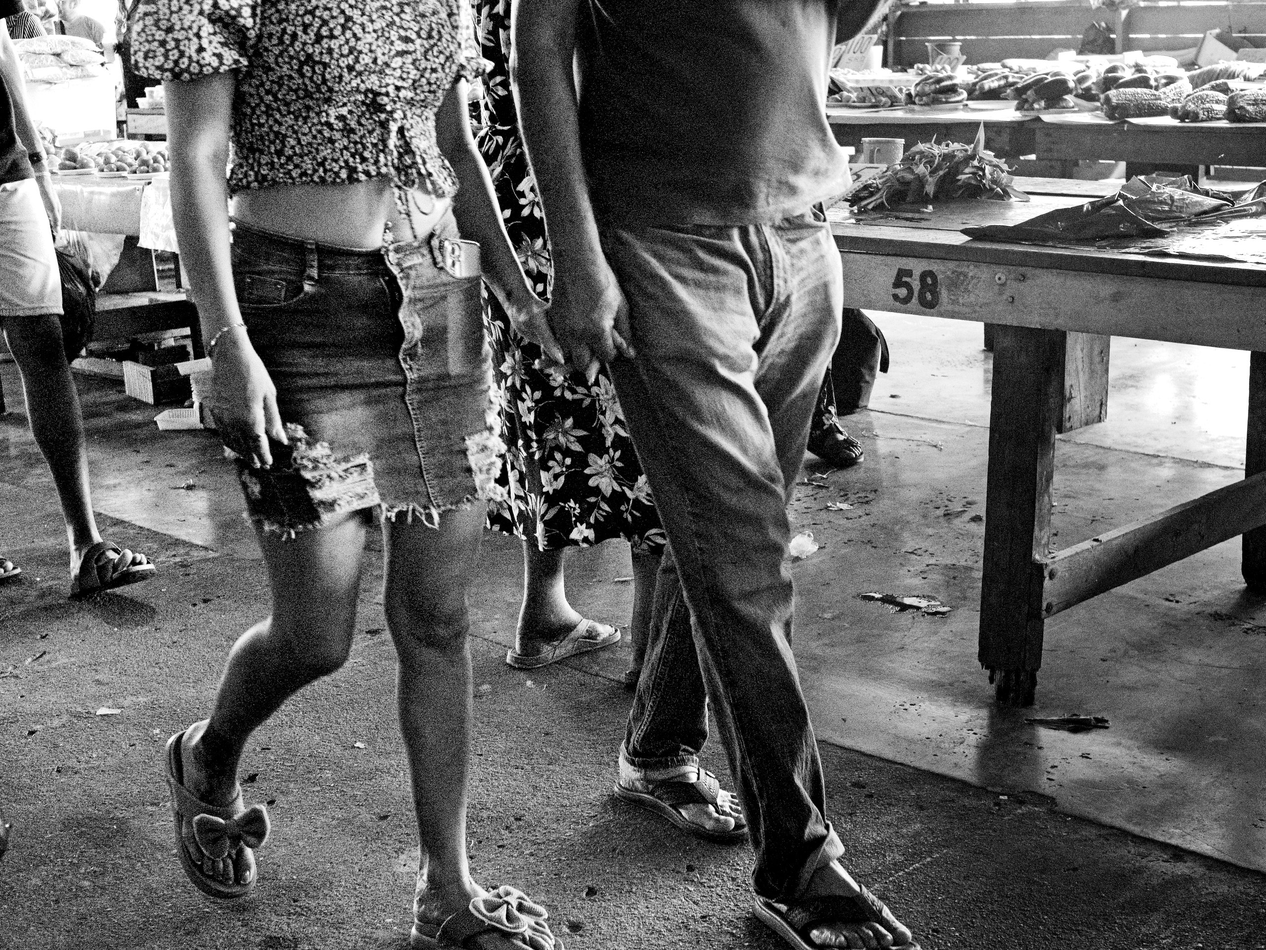
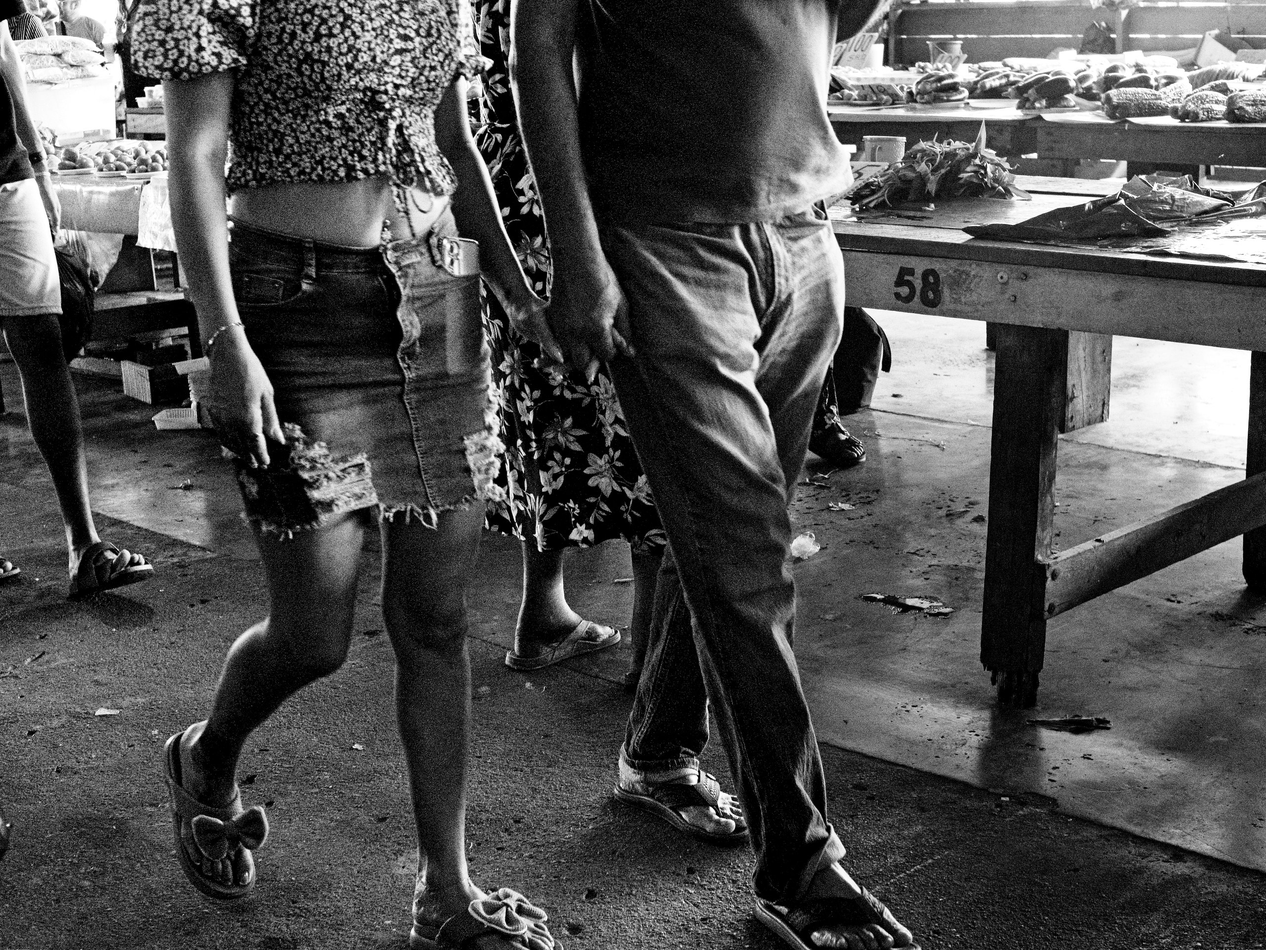
photo: publish reviewed fh-0082

diff --git a/photography/sheets/index.html b/photography/sheets/index.html
@@ -90,7 +90,7 @@
       </li>
       <li class="sheet-entry" style="--tilt:0.50deg">
         <div class="sheet-margin"></div>
-        <a class="sheet-mini" href="/photography/sheets/2026-09-16-market/" tabindex="-1" aria-hidden="true"><span class="mini-edge">faisalhenar.com ▸ 16 September, the market ▸ 5 frames</span><span class="mini-grid" style="--cols:5"><span class="mini-frame"><img src="/cdn-cgi/image/width=400,fit=scale-down,format=auto/photography/photos/2026/fh-0086.jpg?rev=44a2c868c591eb7c0a8722d54b66adce5eff86d0c9de222544d00afaa6a4e450" srcset="/cdn-cgi/image/width=400,fit=scale-down,format=auto/photography/photos/2026/fh-0086.jpg?rev=44a2c868c591eb7c0a8722d54b66adce5eff86d0c9de222544d00afaa6a4e450 400w" sizes="90px" data-orig="/photography/photos/2026/fh-0086.jpg?rev=44a2c868c591eb7c0a8722d54b66adce5eff86d0c9de222544d00afaa6a4e450" width="2560" height="1920" alt="An arm reaches in from the right to turn a key in the lock of a red wooden door." loading="lazy" decoding="async"><span class="mini-no">1 ▸ 1A</span></span><span class="mini-frame"><img src="/cdn-cgi/image/width=400,fit=scale-down,format=auto/photography/photos/2026/fh-0082.jpg?rev=a4d714afacf1c259f435d472354178da2475fb72c502e93b87b946a0258f99fd" srcset="/cdn-cgi/image/width=400,fit=scale-down,format=auto/photography/photos/2026/fh-0082.jpg?rev=a4d714afacf1c259f435d472354178da2475fb72c502e93b87b946a0258f99fd 400w" sizes="90px" data-orig="/photography/photos/2026/fh-0082.jpg?rev=a4d714afacf1c259f435d472354178da2475fb72c502e93b87b946a0258f99fd" width="2560" height="1920" alt="A couple walking through the market, photographed from the waist down, their hands just meeting between them. The stall behind is numbered 58." loading="lazy" decoding="async"><span class="mini-no">2 ▸ 2A</span></span><span class="mini-frame"><img src="/cdn-cgi/image/width=400,fit=scale-down,format=auto/photography/photos/2026/fh-0083.jpg?rev=c899ce75718e8bb99e6b8ab2c83781c23a327c18b4f1fc25707e74d03e782707" srcset="/cdn-cgi/image/width=400,fit=scale-down,format=auto/photography/photos/2026/fh-0083.jpg?rev=c899ce75718e8bb99e6b8ab2c83781c23a327c18b4f1fc25707e74d03e782707 400w" sizes="90px" data-orig="/photography/photos/2026/fh-0083.jpg?rev=c899ce75718e8bb99e6b8ab2c83781c23a327c18b4f1fc25707e74d03e782707" width="2560" height="1920" alt="A vegetable seller sits behind his stall, framed from the chest down. Long beans and bitter gourd are spread on foil in front of him with handwritten price cards." loading="lazy" decoding="async"><span class="mini-no">3 ▸ 3A</span></span><span class="mini-frame frame--circled"><img src="/cdn-cgi/image/width=400,fit=scale-down,format=auto/photography/photos/2026/fh-0084.jpg?rev=eede2a7308c9a1a25f5d3e18f4d7dce4f42c4d69f56e658c7031aada31435ecd" srcset="/cdn-cgi/image/width=400,fit=scale-down,format=auto/photography/photos/2026/fh-0084.jpg?rev=eede2a7308c9a1a25f5d3e18f4d7dce4f42c4d69f56e658c7031aada31435ecd 400w" sizes="90px" data-orig="/photography/photos/2026/fh-0084.jpg?rev=eede2a7308c9a1a25f5d3e18f4d7dce4f42c4d69f56e658c7031aada31435ecd" width="2560" height="1920" alt="Two hands meet over a market table as money changes hands. A man in sunglasses stands at the stall and the seller sits behind it in a white headscarf." loading="lazy" decoding="async"><span class="mini-no">4 ▸ 4A</span><svg class="circle" viewBox="0 0 100 80" preserveAspectRatio="none" aria-hidden="true" focusable="false"><path d="M97.09 45.42 L96.61 48.34 L95.68 51.21 L94.28 53.96 L92.42 56.54 L90.17 58.92 L87.59 61.08 L84.79 63.02 L81.87 64.78 L78.88 66.41 L75.88 67.96 L72.87 69.48 L69.83 70.98 L66.70 72.47 L63.44 73.90 L60.01 75.20 L56.40 76.31 L52.61 77.12 L48.70 77.58 L44.74 77.63 L40.80 77.25 L36.97 76.47 L33.31 75.33 L29.84 73.91 L26.57 72.27 L23.49 70.49 L20.55 68.61 L17.73 66.66 L15.00 64.63 L12.38 62.51 L9.89 60.26 L7.61 57.86 L5.61 55.30 L3.98 52.58 L2.79 49.72 L2.08 46.77 L1.85 43.78 L2.07 40.81 L2.67 37.88 L3.56 35.04 L4.64 32.27 L5.85 29.56 L7.14 26.89 L8.50 24.24 L9.95 21.58 L11.57 18.93 L13.42 16.31 L15.57 13.79 L18.07 11.43 L20.95 9.31 L24.17 7.51 L27.69 6.06 L31.43 4.99 L35.30 4.29 L39.21 3.90 L43.10 3.76 L46.95 3.81 L50.75 3.96 L54.51 4.19 L58.27 4.47 L62.05 4.82 L65.86 5.29 L69.68 5.95 L73.48 6.84 L77.16 8.04 L80.65 9.56 L83.87 11.42 L86.73 13.59 L89.22 16.02 L91.31 18.65 L93.04 21.41 L94.47 24.24 L95.66 27.10 L96.67 29.98 L97.54 32.88 L98.27 35.81 L98.83 38.78 L99.15 41.80 L99.17 44.85 L98.79 47.90 L97.95 50.91 L96.61 53.82 L94.80 56.56" pathLength="100" stroke-width="1.25" opacity="0.92"/><path d="M97.09 45.42 L96.61 48.34 L95.68 51.21 L94.28 53.96 L92.42 56.54 L90.17 58.92 L87.59 61.08 L84.79 63.02 L81.87 64.78 L78.88 66.41 L75.88 67.96 L72.87 69.48 L69.83 70.98 L66.70 72.47 L63.44 73.90 L60.01 75.20 L56.40 76.31 L52.61 77.12 L48.70 77.58 L44.74 77.63 L40.80 77.25 L36.97 76.47 L33.31 75.33 L29.84 73.91 L26.57 72.27 L23.49 70.49 L20.55 68.61 L17.73 66.66 L15.00 64.63 L12.38 62.51 L9.89 60.26 L7.61 57.86 L5.61 55.30 L3.98 52.58 L2.79 49.72 L2.08 46.77 L1.85 43.78 L2.07 40.81 L2.67 37.88 L3.56 35.04 L4.64 32.27 L5.85 29.56 L7.14 26.89 L8.50 24.24 L9.95 21.58 L11.57 18.93 L13.42 16.31 L15.57 13.79 L18.07 11.43 L20.95 9.31 L24.17 7.51 L27.69 6.06 L31.43 4.99 L35.30 4.29 L39.21 3.90 L43.10 3.76 L46.95 3.81 L50.75 3.96 L54.51 4.19 L58.27 4.47 L62.05 4.82 L65.86 5.29 L69.68 5.95 L73.48 6.84 L77.16 8.04 L80.65 9.56 L83.87 11.42 L86.73 13.59 L89.22 16.02 L91.31 18.65 L93.04 21.41 L94.47 24.24 L95.66 27.10 L96.67 29.98 L97.54 32.88 L98.27 35.81 L98.83 38.78 L99.15 41.80 L99.17 44.85 L98.79 47.90 L97.95 50.91 L96.61 53.82 L94.80 56.56" pathLength="100" stroke-width="0.5" opacity="0.45" transform="translate(0.6 0.5)"/></svg></span><span class="mini-frame"><img src="/cdn-cgi/image/width=400,fit=scale-down,format=auto/photography/photos/2026/fh-0085.jpg?rev=d2197e35e6f573376fac03a990ac7667700d8f3621ca6a68453bbbf493c1e3f8" srcset="/cdn-cgi/image/width=400,fit=scale-down,format=auto/photography/photos/2026/fh-0085.jpg?rev=d2197e35e6f573376fac03a990ac7667700d8f3621ca6a68453bbbf493c1e3f8 400w" sizes="90px" data-orig="/photography/photos/2026/fh-0085.jpg?rev=d2197e35e6f573376fac03a990ac7667700d8f3621ca6a68453bbbf493c1e3f8" width="2560" height="1921" alt="An older woman in a lace headscarf stands behind her market table, greens and aubergines laid out with handwritten price cards." loading="lazy" decoding="async"><span class="mini-no">5 ▸ 5A</span></span></span></a>
+        <a class="sheet-mini" href="/photography/sheets/2026-09-16-market/" tabindex="-1" aria-hidden="true"><span class="mini-edge">faisalhenar.com ▸ 16 September, the market ▸ 5 frames</span><span class="mini-grid" style="--cols:5"><span class="mini-frame"><img src="/cdn-cgi/image/width=400,fit=scale-down,format=auto/photography/photos/2026/fh-0086.jpg?rev=44a2c868c591eb7c0a8722d54b66adce5eff86d0c9de222544d00afaa6a4e450" srcset="/cdn-cgi/image/width=400,fit=scale-down,format=auto/photography/photos/2026/fh-0086.jpg?rev=44a2c868c591eb7c0a8722d54b66adce5eff86d0c9de222544d00afaa6a4e450 400w" sizes="90px" data-orig="/photography/photos/2026/fh-0086.jpg?rev=44a2c868c591eb7c0a8722d54b66adce5eff86d0c9de222544d00afaa6a4e450" width="2560" height="1920" alt="An arm reaches in from the right to turn a key in the lock of a red wooden door." loading="lazy" decoding="async"><span class="mini-no">1 ▸ 1A</span></span><span class="mini-frame"><img src="/cdn-cgi/image/width=400,fit=scale-down,format=auto/photography/photos/2026/fh-0082.jpg?rev=ab3112e84700203fa61a81bfe209f6664bd97561145934535093a1c190da32ef" srcset="/cdn-cgi/image/width=400,fit=scale-down,format=auto/photography/photos/2026/fh-0082.jpg?rev=ab3112e84700203fa61a81bfe209f6664bd97561145934535093a1c190da32ef 400w" sizes="90px" data-orig="/photography/photos/2026/fh-0082.jpg?rev=ab3112e84700203fa61a81bfe209f6664bd97561145934535093a1c190da32ef" width="2560" height="1920" alt="A couple walking through the market, photographed from the waist down, their hands just meeting between them. The stall behind is numbered 58." loading="lazy" decoding="async"><span class="mini-no">2 ▸ 2A</span></span><span class="mini-frame"><img src="/cdn-cgi/image/width=400,fit=scale-down,format=auto/photography/photos/2026/fh-0083.jpg?rev=c899ce75718e8bb99e6b8ab2c83781c23a327c18b4f1fc25707e74d03e782707" srcset="/cdn-cgi/image/width=400,fit=scale-down,format=auto/photography/photos/2026/fh-0083.jpg?rev=c899ce75718e8bb99e6b8ab2c83781c23a327c18b4f1fc25707e74d03e782707 400w" sizes="90px" data-orig="/photography/photos/2026/fh-0083.jpg?rev=c899ce75718e8bb99e6b8ab2c83781c23a327c18b4f1fc25707e74d03e782707" width="2560" height="1920" alt="A vegetable seller sits behind his stall, framed from the chest down. Long beans and bitter gourd are spread on foil in front of him with handwritten price cards." loading="lazy" decoding="async"><span class="mini-no">3 ▸ 3A</span></span><span class="mini-frame frame--circled"><img src="/cdn-cgi/image/width=400,fit=scale-down,format=auto/photography/photos/2026/fh-0084.jpg?rev=eede2a7308c9a1a25f5d3e18f4d7dce4f42c4d69f56e658c7031aada31435ecd" srcset="/cdn-cgi/image/width=400,fit=scale-down,format=auto/photography/photos/2026/fh-0084.jpg?rev=eede2a7308c9a1a25f5d3e18f4d7dce4f42c4d69f56e658c7031aada31435ecd 400w" sizes="90px" data-orig="/photography/photos/2026/fh-0084.jpg?rev=eede2a7308c9a1a25f5d3e18f4d7dce4f42c4d69f56e658c7031aada31435ecd" width="2560" height="1920" alt="Two hands meet over a market table as money changes hands. A man in sunglasses stands at the stall and the seller sits behind it in a white headscarf." loading="lazy" decoding="async"><span class="mini-no">4 ▸ 4A</span><svg class="circle" viewBox="0 0 100 80" preserveAspectRatio="none" aria-hidden="true" focusable="false"><path d="M97.09 45.42 L96.61 48.34 L95.68 51.21 L94.28 53.96 L92.42 56.54 L90.17 58.92 L87.59 61.08 L84.79 63.02 L81.87 64.78 L78.88 66.41 L75.88 67.96 L72.87 69.48 L69.83 70.98 L66.70 72.47 L63.44 73.90 L60.01 75.20 L56.40 76.31 L52.61 77.12 L48.70 77.58 L44.74 77.63 L40.80 77.25 L36.97 76.47 L33.31 75.33 L29.84 73.91 L26.57 72.27 L23.49 70.49 L20.55 68.61 L17.73 66.66 L15.00 64.63 L12.38 62.51 L9.89 60.26 L7.61 57.86 L5.61 55.30 L3.98 52.58 L2.79 49.72 L2.08 46.77 L1.85 43.78 L2.07 40.81 L2.67 37.88 L3.56 35.04 L4.64 32.27 L5.85 29.56 L7.14 26.89 L8.50 24.24 L9.95 21.58 L11.57 18.93 L13.42 16.31 L15.57 13.79 L18.07 11.43 L20.95 9.31 L24.17 7.51 L27.69 6.06 L31.43 4.99 L35.30 4.29 L39.21 3.90 L43.10 3.76 L46.95 3.81 L50.75 3.96 L54.51 4.19 L58.27 4.47 L62.05 4.82 L65.86 5.29 L69.68 5.95 L73.48 6.84 L77.16 8.04 L80.65 9.56 L83.87 11.42 L86.73 13.59 L89.22 16.02 L91.31 18.65 L93.04 21.41 L94.47 24.24 L95.66 27.10 L96.67 29.98 L97.54 32.88 L98.27 35.81 L98.83 38.78 L99.15 41.80 L99.17 44.85 L98.79 47.90 L97.95 50.91 L96.61 53.82 L94.80 56.56" pathLength="100" stroke-width="1.25" opacity="0.92"/><path d="M97.09 45.42 L96.61 48.34 L95.68 51.21 L94.28 53.96 L92.42 56.54 L90.17 58.92 L87.59 61.08 L84.79 63.02 L81.87 64.78 L78.88 66.41 L75.88 67.96 L72.87 69.48 L69.83 70.98 L66.70 72.47 L63.44 73.90 L60.01 75.20 L56.40 76.31 L52.61 77.12 L48.70 77.58 L44.74 77.63 L40.80 77.25 L36.97 76.47 L33.31 75.33 L29.84 73.91 L26.57 72.27 L23.49 70.49 L20.55 68.61 L17.73 66.66 L15.00 64.63 L12.38 62.51 L9.89 60.26 L7.61 57.86 L5.61 55.30 L3.98 52.58 L2.79 49.72 L2.08 46.77 L1.85 43.78 L2.07 40.81 L2.67 37.88 L3.56 35.04 L4.64 32.27 L5.85 29.56 L7.14 26.89 L8.50 24.24 L9.95 21.58 L11.57 18.93 L13.42 16.31 L15.57 13.79 L18.07 11.43 L20.95 9.31 L24.17 7.51 L27.69 6.06 L31.43 4.99 L35.30 4.29 L39.21 3.90 L43.10 3.76 L46.95 3.81 L50.75 3.96 L54.51 4.19 L58.27 4.47 L62.05 4.82 L65.86 5.29 L69.68 5.95 L73.48 6.84 L77.16 8.04 L80.65 9.56 L83.87 11.42 L86.73 13.59 L89.22 16.02 L91.31 18.65 L93.04 21.41 L94.47 24.24 L95.66 27.10 L96.67 29.98 L97.54 32.88 L98.27 35.81 L98.83 38.78 L99.15 41.80 L99.17 44.85 L98.79 47.90 L97.95 50.91 L96.61 53.82 L94.80 56.56" pathLength="100" stroke-width="0.5" opacity="0.45" transform="translate(0.6 0.5)"/></svg></span><span class="mini-frame"><img src="/cdn-cgi/image/width=400,fit=scale-down,format=auto/photography/photos/2026/fh-0085.jpg?rev=d2197e35e6f573376fac03a990ac7667700d8f3621ca6a68453bbbf493c1e3f8" srcset="/cdn-cgi/image/width=400,fit=scale-down,format=auto/photography/photos/2026/fh-0085.jpg?rev=d2197e35e6f573376fac03a990ac7667700d8f3621ca6a68453bbbf493c1e3f8 400w" sizes="90px" data-orig="/photography/photos/2026/fh-0085.jpg?rev=d2197e35e6f573376fac03a990ac7667700d8f3621ca6a68453bbbf493c1e3f8" width="2560" height="1921" alt="An older woman in a lace headscarf stands behind her market table, greens and aubergines laid out with handwritten price cards." loading="lazy" decoding="async"><span class="mini-no">5 ▸ 5A</span></span></span></a>
         <div class="sheet-note">
           <h2><a href="/photography/sheets/2026-09-16-market/">16 September, the market</a></h2>
           <p class="sheet-meta">16 September 2026 · 5 frames</p>

diff --git a/photography/everything/index.html b/photography/everything/index.html
@@ -110,7 +110,7 @@
           <a class="ev-item" href="/photography/p/fh-0085/" style="--r:1.3326;--tilt:-0.06deg" data-place="suriname" data-tone="bw" data-v-src="/photography/photos/2026/fh-0085.jpg?rev=d2197e35e6f573376fac03a990ac7667700d8f3621ca6a68453bbbf493c1e3f8" data-v-w="2560" data-v-h="1921" data-v-title="Frame 5, 16 September, the market" data-v-desc="An older woman in a lace headscarf stands behind her market table, greens and aubergines laid out with handwritten price cards." data-v-meta="16 September 2026, 11:32" data-v-from="From 16 September, the market, frame 5" data-v-from-href="/photography/sheets/2026-09-16-market/#frame-5" data-v-wall="" data-v-wall-href=""><img src="/cdn-cgi/image/width=300,fit=scale-down,format=auto/photography/photos/2026/fh-0085.jpg?rev=d2197e35e6f573376fac03a990ac7667700d8f3621ca6a68453bbbf493c1e3f8" srcset="/cdn-cgi/image/width=300,fit=scale-down,format=auto/photography/photos/2026/fh-0085.jpg?rev=d2197e35e6f573376fac03a990ac7667700d8f3621ca6a68453bbbf493c1e3f8 300w, /cdn-cgi/image/width=600,fit=scale-down,format=auto/photography/photos/2026/fh-0085.jpg?rev=d2197e35e6f573376fac03a990ac7667700d8f3621ca6a68453bbbf493c1e3f8 600w" sizes="(max-width: 760px) 120px, 217px" data-orig="/photography/photos/2026/fh-0085.jpg?rev=d2197e35e6f573376fac03a990ac7667700d8f3621ca6a68453bbbf493c1e3f8" width="2560" height="1921" alt="An older woman in a lace headscarf stands behind her market table, greens and aubergines laid out with handwritten price cards." loading="lazy" decoding="async"><span class="ev-cap" aria-hidden="true">Frame 5, 16 September, the market</span></a>
           <a class="ev-item" href="/photography/p/fh-0084/" style="--r:1.3333;--tilt:0.33deg" data-place="suriname" data-tone="bw" data-v-src="/photography/photos/2026/fh-0084.jpg?rev=eede2a7308c9a1a25f5d3e18f4d7dce4f42c4d69f56e658c7031aada31435ecd" data-v-w="2560" data-v-h="1920" data-v-title="Frame 4, 16 September, the market" data-v-desc="Two hands meet over a market table as money changes hands. A man in sunglasses stands at the stall and the seller sits behind it in a white headscarf." data-v-meta="16 September 2026, 11:25" data-v-from="From 16 September, the market, frame 4" data-v-from-href="/photography/sheets/2026-09-16-market/#frame-4" data-v-wall="" data-v-wall-href=""><img src="/cdn-cgi/image/width=300,fit=scale-down,format=auto/photography/photos/2026/fh-0084.jpg?rev=eede2a7308c9a1a25f5d3e18f4d7dce4f42c4d69f56e658c7031aada31435ecd" srcset="/cdn-cgi/image/width=300,fit=scale-down,format=auto/photography/photos/2026/fh-0084.jpg?rev=eede2a7308c9a1a25f5d3e18f4d7dce4f42c4d69f56e658c7031aada31435ecd 300w, /cdn-cgi/image/width=600,fit=scale-down,format=auto/photography/photos/2026/fh-0084.jpg?rev=eede2a7308c9a1a25f5d3e18f4d7dce4f42c4d69f56e658c7031aada31435ecd 600w" sizes="(max-width: 760px) 120px, 217px" data-orig="/photography/photos/2026/fh-0084.jpg?rev=eede2a7308c9a1a25f5d3e18f4d7dce4f42c4d69f56e658c7031aada31435ecd" width="2560" height="1920" alt="Two hands meet over a market table as money changes hands. A man in sunglasses stands at the stall and the seller sits behind it in a white headscarf." loading="lazy" decoding="async"><span class="ev-cap" aria-hidden="true">Frame 4, 16 September, the market</span></a>
           <a class="ev-item" href="/photography/p/fh-0083/" style="--r:1.3333;--tilt:0.74deg" data-place="suriname" data-tone="bw" data-v-src="/photography/photos/2026/fh-0083.jpg?rev=c899ce75718e8bb99e6b8ab2c83781c23a327c18b4f1fc25707e74d03e782707" data-v-w="2560" data-v-h="1920" data-v-title="Frame 3, 16 September, the market" data-v-desc="A vegetable seller sits behind his stall, framed from the chest down. Long beans and bitter gourd are spread on foil in front of him with handwritten price cards." data-v-meta="16 September 2026, 11:25" data-v-from="From 16 September, the market, frame 3" data-v-from-href="/photography/sheets/2026-09-16-market/#frame-3" data-v-wall="" data-v-wall-href=""><img src="/cdn-cgi/image/width=300,fit=scale-down,format=auto/photography/photos/2026/fh-0083.jpg?rev=c899ce75718e8bb99e6b8ab2c83781c23a327c18b4f1fc25707e74d03e782707" srcset="/cdn-cgi/image/width=300,fit=scale-down,format=auto/photography/photos/2026/fh-0083.jpg?rev=c899ce75718e8bb99e6b8ab2c83781c23a327c18b4f1fc25707e74d03e782707 300w, /cdn-cgi/image/width=600,fit=scale-down,format=auto/photography/photos/2026/fh-0083.jpg?rev=c899ce75718e8bb99e6b8ab2c83781c23a327c18b4f1fc25707e74d03e782707 600w" sizes="(max-width: 760px) 120px, 217px" data-orig="/photography/photos/2026/fh-0083.jpg?rev=c899ce75718e8bb99e6b8ab2c83781c23a327c18b4f1fc25707e74d03e782707" width="2560" height="1920" alt="A vegetable seller sits behind his stall, framed from the chest down. Long beans and bitter gourd are spread on foil in front of him with handwritten price cards." loading="lazy" decoding="async"><span class="ev-cap" aria-hidden="true">Frame 3, 16 September, the market</span></a>
-          <a class="ev-item" href="/photography/p/fh-0082/" style="--r:1.3333;--tilt:-0.66deg" data-place="suriname" data-tone="bw" data-v-src="/photography/photos/2026/fh-0082.jpg?rev=a4d714afacf1c259f435d472354178da2475fb72c502e93b87b946a0258f99fd" data-v-w="2560" data-v-h="1920" data-v-title="Frame 2, 16 September, the market" data-v-desc="A couple walking through the market, photographed from the waist down, their hands just meeting between them. The stall behind is numbered 58." data-v-meta="16 September 2026, 11:22" data-v-from="From 16 September, the market, frame 2" data-v-from-href="/photography/sheets/2026-09-16-market/#frame-2" data-v-wall="" data-v-wall-href=""><img src="/cdn-cgi/image/width=300,fit=scale-down,format=auto/photography/photos/2026/fh-0082.jpg?rev=a4d714afacf1c259f435d472354178da2475fb72c502e93b87b946a0258f99fd" srcset="/cdn-cgi/image/width=300,fit=scale-down,format=auto/photography/photos/2026/fh-0082.jpg?rev=a4d714afacf1c259f435d472354178da2475fb72c502e93b87b946a0258f99fd 300w, /cdn-cgi/image/width=600,fit=scale-down,format=auto/photography/photos/2026/fh-0082.jpg?rev=a4d714afacf1c259f435d472354178da2475fb72c502e93b87b946a0258f99fd 600w" sizes="(max-width: 760px) 120px, 217px" data-orig="/photography/photos/2026/fh-0082.jpg?rev=a4d714afacf1c259f435d472354178da2475fb72c502e93b87b946a0258f99fd" width="2560" height="1920" alt="A couple walking through the market, photographed from the waist down, their hands just meeting between them. The stall behind is numbered 58." loading="lazy" decoding="async"><span class="ev-cap" aria-hidden="true">Frame 2, 16 September, the market</span></a>
+          <a class="ev-item" href="/photography/p/fh-0082/" style="--r:1.3333;--tilt:-0.66deg" data-place="suriname" data-tone="bw" data-v-src="/photography/photos/2026/fh-0082.jpg?rev=ab3112e84700203fa61a81bfe209f6664bd97561145934535093a1c190da32ef" data-v-w="2560" data-v-h="1920" data-v-title="Frame 2, 16 September, the market" data-v-desc="A couple walking through the market, photographed from the waist down, their hands just meeting between them. The stall behind is numbered 58." data-v-meta="16 September 2026, 11:22" data-v-from="From 16 September, the market, frame 2" data-v-from-href="/photography/sheets/2026-09-16-market/#frame-2" data-v-wall="" data-v-wall-href=""><img src="/cdn-cgi/image/width=300,fit=scale-down,format=auto/photography/photos/2026/fh-0082.jpg?rev=ab3112e84700203fa61a81bfe209f6664bd97561145934535093a1c190da32ef" srcset="/cdn-cgi/image/width=300,fit=scale-down,format=auto/photography/photos/2026/fh-0082.jpg?rev=ab3112e84700203fa61a81bfe209f6664bd97561145934535093a1c190da32ef 300w, /cdn-cgi/image/width=600,fit=scale-down,format=auto/photography/photos/2026/fh-0082.jpg?rev=ab3112e84700203fa61a81bfe209f6664bd97561145934535093a1c190da32ef 600w" sizes="(max-width: 760px) 120px, 217px" data-orig="/photography/photos/2026/fh-0082.jpg?rev=ab3112e84700203fa61a81bfe209f6664bd97561145934535093a1c190da32ef" width="2560" height="1920" alt="A couple walking through the market, photographed from the waist down, their hands just meeting between them. The stall behind is numbered 58." loading="lazy" decoding="async"><span class="ev-cap" aria-hidden="true">Frame 2, 16 September, the market</span></a>
           <a class="ev-item" href="/photography/p/fh-0086/" style="--r:1.3333;--tilt:-0.06deg" data-place="suriname" data-tone="colour" data-v-src="/photography/photos/2026/fh-0086.jpg?rev=44a2c868c591eb7c0a8722d54b66adce5eff86d0c9de222544d00afaa6a4e450" data-v-w="2560" data-v-h="1920" data-v-title="Frame 1, 16 September, the market" data-v-desc="An arm reaches in from the right to turn a key in the lock of a red wooden door." data-v-meta="16 September 2026, 09:32" data-v-from="From 16 September, the market, frame 1" data-v-from-href="/photography/sheets/2026-09-16-market/#frame-1" data-v-wall="" data-v-wall-href=""><img src="/cdn-cgi/image/width=300,fit=scale-down,format=auto/photography/photos/2026/fh-0086.jpg?rev=44a2c868c591eb7c0a8722d54b66adce5eff86d0c9de222544d00afaa6a4e450" srcset="/cdn-cgi/image/width=300,fit=scale-down,format=auto/photography/photos/2026/fh-0086.jpg?rev=44a2c868c591eb7c0a8722d54b66adce5eff86d0c9de222544d00afaa6a4e450 300w, /cdn-cgi/image/width=600,fit=scale-down,format=auto/photography/photos/2026/fh-0086.jpg?rev=44a2c868c591eb7c0a8722d54b66adce5eff86d0c9de222544d00afaa6a4e450 600w" sizes="(max-width: 760px) 120px, 217px" data-orig="/photography/photos/2026/fh-0086.jpg?rev=44a2c868c591eb7c0a8722d54b66adce5eff86d0c9de222544d00afaa6a4e450" width="2560" height="1920" alt="An arm reaches in from the right to turn a key in the lock of a red wooden door." loading="lazy" decoding="async"><span class="ev-cap" aria-hidden="true">Frame 1, 16 September, the market</span></a>
           <a class="ev-item" href="/photography/p/fh-0055/" style="--r:1.3340;--tilt:-0.23deg" data-place="suriname" data-tone="bw" data-v-src="/photography/photos/2026/fh-0055.jpg?rev=17cd00cdbbab59044472a188f33bc190c656b0b87c3c150859f32d6e3a71bb56" data-v-w="2560" data-v-h="1919" data-v-title="Frame 13, 4 September, dawn to the churches" data-v-desc="A church gate seen from below. The iron arch above it reads “Jezus zegt komt herwaarts tot mij”." data-v-meta="4 September 2026, 09:53" data-v-from="From 4 September, dawn to the churches, frame 13" data-v-from-href="/photography/sheets/2026-09-04-dawn-to-the-churches/#frame-13" data-v-wall="" data-v-wall-href=""><img src="/cdn-cgi/image/width=300,fit=scale-down,format=auto/photography/photos/2026/fh-0055.jpg?rev=17cd00cdbbab59044472a188f33bc190c656b0b87c3c150859f32d6e3a71bb56" srcset="/cdn-cgi/image/width=300,fit=scale-down,format=auto/photography/photos/2026/fh-0055.jpg?rev=17cd00cdbbab59044472a188f33bc190c656b0b87c3c150859f32d6e3a71bb56 300w, /cdn-cgi/image/width=600,fit=scale-down,format=auto/photography/photos/2026/fh-0055.jpg?rev=17cd00cdbbab59044472a188f33bc190c656b0b87c3c150859f32d6e3a71bb56 600w" sizes="(max-width: 760px) 120px, 217px" data-orig="/photography/photos/2026/fh-0055.jpg?rev=17cd00cdbbab59044472a188f33bc190c656b0b87c3c150859f32d6e3a71bb56" width="2560" height="1919" alt="A church gate seen from below. The iron arch above it reads “Jezus zegt komt herwaarts tot mij”." loading="lazy" decoding="async"><span class="ev-cap" aria-hidden="true">Frame 13, 4 September, dawn to the churches</span></a>
           <a class="ev-item" href="/photography/p/fh-0054/" style="--r:1.3333;--tilt:-0.65deg" data-place="suriname" data-tone="bw" data-v-src="/photography/photos/2026/fh-0054.jpg?rev=f2a9ff721625d322af377b9ed2cdcc51205385fc6332806dbf1d9cef0da947b6" data-v-w="2560" data-v-h="1920" data-v-title="Frame 12, 4 September, dawn to the churches" data-v-desc="A large white wooden church with a steep gable and a square bell tower, palms in the foreground." data-v-meta="4 September 2026, 09:34" data-v-from="From 4 September, dawn to the churches, frame 12" data-v-from-href="/photography/sheets/2026-09-04-dawn-to-the-churches/#frame-12" data-v-wall="" data-v-wall-href=""><img src="/cdn-cgi/image/width=300,fit=scale-down,format=auto/photography/photos/2026/fh-0054.jpg?rev=f2a9ff721625d322af377b9ed2cdcc51205385fc6332806dbf1d9cef0da947b6" srcset="/cdn-cgi/image/width=300,fit=scale-down,format=auto/photography/photos/2026/fh-0054.jpg?rev=f2a9ff721625d322af377b9ed2cdcc51205385fc6332806dbf1d9cef0da947b6 300w, /cdn-cgi/image/width=600,fit=scale-down,format=auto/photography/photos/2026/fh-0054.jpg?rev=f2a9ff721625d322af377b9ed2cdcc51205385fc6332806dbf1d9cef0da947b6 600w" sizes="(max-width: 760px) 120px, 217px" data-orig="/photography/photos/2026/fh-0054.jpg?rev=f2a9ff721625d322af377b9ed2cdcc51205385fc6332806dbf1d9cef0da947b6" width="2560" height="1920" alt="A large white wooden church with a steep gable and a square bell tower, palms in the foreground." loading="lazy" decoding="async"><span class="ev-cap" aria-hidden="true">Frame 12, 4 September, dawn to the churches</span></a>

diff --git a/photography/p/fh-0082/index.html b/photography/p/fh-0082/index.html
@@ -14,13 +14,13 @@
 <meta property="og:description" content="A couple walking through the market, photographed from the waist down, their hands just meeting between them. The stall behind is numbered 58.">
 <meta property="og:type" content="website">
 <meta property="og:url" content="https://faisalhenar.com/photography/p/fh-0082/">
-<meta property="og:image" content="https://faisalhenar.com/cdn-cgi/image/width=1200,fit=scale-down,format=auto/photography/photos/2026/fh-0082.jpg?rev=a4d714afacf1c259f435d472354178da2475fb72c502e93b87b946a0258f99fd">
+<meta property="og:image" content="https://faisalhenar.com/cdn-cgi/image/width=1200,fit=scale-down,format=auto/photography/photos/2026/fh-0082.jpg?rev=ab3112e84700203fa61a81bfe209f6664bd97561145934535093a1c190da32ef">
 <meta property="og:image:width" content="1200">
 <meta property="og:image:height" content="900">
 <meta name="twitter:card" content="summary_large_image">
 <meta name="twitter:title" content="Frame 2, 16 September, the market · Faisal Henar">
 <meta name="twitter:description" content="A couple walking through the market, photographed from the waist down, their hands just meeting between them. The stall behind is numbered 58.">
-<meta name="twitter:image" content="https://faisalhenar.com/cdn-cgi/image/width=1200,fit=scale-down,format=auto/photography/photos/2026/fh-0082.jpg?rev=a4d714afacf1c259f435d472354178da2475fb72c502e93b87b946a0258f99fd">
+<meta name="twitter:image" content="https://faisalhenar.com/cdn-cgi/image/width=1200,fit=scale-down,format=auto/photography/photos/2026/fh-0082.jpg?rev=ab3112e84700203fa61a81bfe209f6664bd97561145934535093a1c190da32ef">
 <link rel="preload" href="/photography/fonts/familjen-grotesk-latin.woff2" as="font" type="font/woff2" crossorigin>
 <link rel="stylesheet" href="/css/base.css?v=3">
 <link rel="stylesheet" href="/photography/room-assets/room.css?v=10">
@@ -57,7 +57,7 @@
       <nav class="room-nav" aria-label="Photography room"><a href="/photography/">The wall</a><span class="room-nav-dot" aria-hidden="true">·</span><a href="/photography/sheets/" aria-current="page">Contact sheets</a><span class="room-nav-dot" aria-hidden="true">·</span><a href="/photography/everything/">Everything <span class="room-nav-n">124</span></a></nav>
     </div>
     <figure class="photo">
-      <div class="photo-frame"><img src="/cdn-cgi/image/width=1200,fit=scale-down,format=auto/photography/photos/2026/fh-0082.jpg?rev=a4d714afacf1c259f435d472354178da2475fb72c502e93b87b946a0258f99fd" srcset="/cdn-cgi/image/width=800,fit=scale-down,format=auto/photography/photos/2026/fh-0082.jpg?rev=a4d714afacf1c259f435d472354178da2475fb72c502e93b87b946a0258f99fd 800w, /cdn-cgi/image/width=1200,fit=scale-down,format=auto/photography/photos/2026/fh-0082.jpg?rev=a4d714afacf1c259f435d472354178da2475fb72c502e93b87b946a0258f99fd 1200w, /cdn-cgi/image/width=2000,fit=scale-down,format=auto/photography/photos/2026/fh-0082.jpg?rev=a4d714afacf1c259f435d472354178da2475fb72c502e93b87b946a0258f99fd 2000w" sizes="(max-width: 760px) 100vw, 90vw" data-orig="/photography/photos/2026/fh-0082.jpg?rev=a4d714afacf1c259f435d472354178da2475fb72c502e93b87b946a0258f99fd" width="2560" height="1920" alt="A couple walking through the market, photographed from the waist down, their hands just meeting between them. The stall behind is numbered 58." fetchpriority="high" decoding="async"></div>
+      <div class="photo-frame"><img src="/cdn-cgi/image/width=1200,fit=scale-down,format=auto/photography/photos/2026/fh-0082.jpg?rev=ab3112e84700203fa61a81bfe209f6664bd97561145934535093a1c190da32ef" srcset="/cdn-cgi/image/width=800,fit=scale-down,format=auto/photography/photos/2026/fh-0082.jpg?rev=ab3112e84700203fa61a81bfe209f6664bd97561145934535093a1c190da32ef 800w, /cdn-cgi/image/width=1200,fit=scale-down,format=auto/photography/photos/2026/fh-0082.jpg?rev=ab3112e84700203fa61a81bfe209f6664bd97561145934535093a1c190da32ef 1200w, /cdn-cgi/image/width=2000,fit=scale-down,format=auto/photography/photos/2026/fh-0082.jpg?rev=ab3112e84700203fa61a81bfe209f6664bd97561145934535093a1c190da32ef 2000w" sizes="(max-width: 760px) 100vw, 90vw" data-orig="/photography/photos/2026/fh-0082.jpg?rev=ab3112e84700203fa61a81bfe209f6664bd97561145934535093a1c190da32ef" width="2560" height="1920" alt="A couple walking through the market, photographed from the waist down, their hands just meeting between them. The stall behind is numbered 58." fetchpriority="high" decoding="async"></div>
       <figcaption class="photo-cap">
         <h1>Frame 2, 16 September, the market</h1>
         <p class="photo-desc">A couple walking through the market, photographed from the waist down, their hands just meeting between them. The stall behind is numbered 58.</p>

diff --git a/photography/sheets/2026-09-16-market/index.html b/photography/sheets/2026-09-16-market/index.html
@@ -73,7 +73,7 @@
           <figcaption class="frame-cap" id="frame-1-cap"><span class="sr-only">Frame 1, 09:32</span><span aria-hidden="true">1 ▸ 1A</span><span class="frame-time" aria-hidden="true"> · 09:32</span></figcaption>
         </figure>
         <figure class="frame" id="frame-2" data-frame="2">
-          <a class="frame-photo" href="/photography/p/fh-0082/" data-v-src="/photography/photos/2026/fh-0082.jpg?rev=a4d714afacf1c259f435d472354178da2475fb72c502e93b87b946a0258f99fd" data-v-w="2560" data-v-h="1920" data-v-title="Frame 2, 16 September, the market" data-v-desc="A couple walking through the market, photographed from the waist down, their hands just meeting between them. The stall behind is numbered 58." data-v-meta="16 September 2026, 11:22" data-v-from="From 16 September, the market, frame 2" data-v-from-href="/photography/sheets/2026-09-16-market/#frame-2" data-v-wall="" data-v-wall-href="" aria-describedby="frame-2-cap"><img src="/cdn-cgi/image/width=400,fit=scale-down,format=auto/photography/photos/2026/fh-0082.jpg?rev=a4d714afacf1c259f435d472354178da2475fb72c502e93b87b946a0258f99fd" srcset="/cdn-cgi/image/width=400,fit=scale-down,format=auto/photography/photos/2026/fh-0082.jpg?rev=a4d714afacf1c259f435d472354178da2475fb72c502e93b87b946a0258f99fd 400w, /cdn-cgi/image/width=800,fit=scale-down,format=auto/photography/photos/2026/fh-0082.jpg?rev=a4d714afacf1c259f435d472354178da2475fb72c502e93b87b946a0258f99fd 800w, /cdn-cgi/image/width=1200,fit=scale-down,format=auto/photography/photos/2026/fh-0082.jpg?rev=a4d714afacf1c259f435d472354178da2475fb72c502e93b87b946a0258f99fd 1200w" sizes="(max-width: 559px) 45vw, (max-width: 999px) 30vw, 19vw" data-orig="/photography/photos/2026/fh-0082.jpg?rev=a4d714afacf1c259f435d472354178da2475fb72c502e93b87b946a0258f99fd" width="2560" height="1920" alt="A couple walking through the market, photographed from the waist down, their hands just meeting between them. The stall behind is numbered 58." loading="lazy" decoding="async"></a>
+          <a class="frame-photo" href="/photography/p/fh-0082/" data-v-src="/photography/photos/2026/fh-0082.jpg?rev=ab3112e84700203fa61a81bfe209f6664bd97561145934535093a1c190da32ef" data-v-w="2560" data-v-h="1920" data-v-title="Frame 2, 16 September, the market" data-v-desc="A couple walking through the market, photographed from the waist down, their hands just meeting between them. The stall behind is numbered 58." data-v-meta="16 September 2026, 11:22" data-v-from="From 16 September, the market, frame 2" data-v-from-href="/photography/sheets/2026-09-16-market/#frame-2" data-v-wall="" data-v-wall-href="" aria-describedby="frame-2-cap"><img src="/cdn-cgi/image/width=400,fit=scale-down,format=auto/photography/photos/2026/fh-0082.jpg?rev=ab3112e84700203fa61a81bfe209f6664bd97561145934535093a1c190da32ef" srcset="/cdn-cgi/image/width=400,fit=scale-down,format=auto/photography/photos/2026/fh-0082.jpg?rev=ab3112e84700203fa61a81bfe209f6664bd97561145934535093a1c190da32ef 400w, /cdn-cgi/image/width=800,fit=scale-down,format=auto/photography/photos/2026/fh-0082.jpg?rev=ab3112e84700203fa61a81bfe209f6664bd97561145934535093a1c190da32ef 800w, /cdn-cgi/image/width=1200,fit=scale-down,format=auto/photography/photos/2026/fh-0082.jpg?rev=ab3112e84700203fa61a81bfe209f6664bd97561145934535093a1c190da32ef 1200w" sizes="(max-width: 559px) 45vw, (max-width: 999px) 30vw, 19vw" data-orig="/photography/photos/2026/fh-0082.jpg?rev=ab3112e84700203fa61a81bfe209f6664bd97561145934535093a1c190da32ef" width="2560" height="1920" alt="A couple walking through the market, photographed from the waist down, their hands just meeting between them. The stall behind is numbered 58." loading="lazy" decoding="async"></a>
           <figcaption class="frame-cap" id="frame-2-cap"><span class="sr-only">Frame 2, 11:22</span><span aria-hidden="true">2 ▸ 2A</span><span class="frame-time" aria-hidden="true"> · 11:22</span></figcaption>
         </figure>
         <figure class="frame" id="frame-3" data-frame="3">
